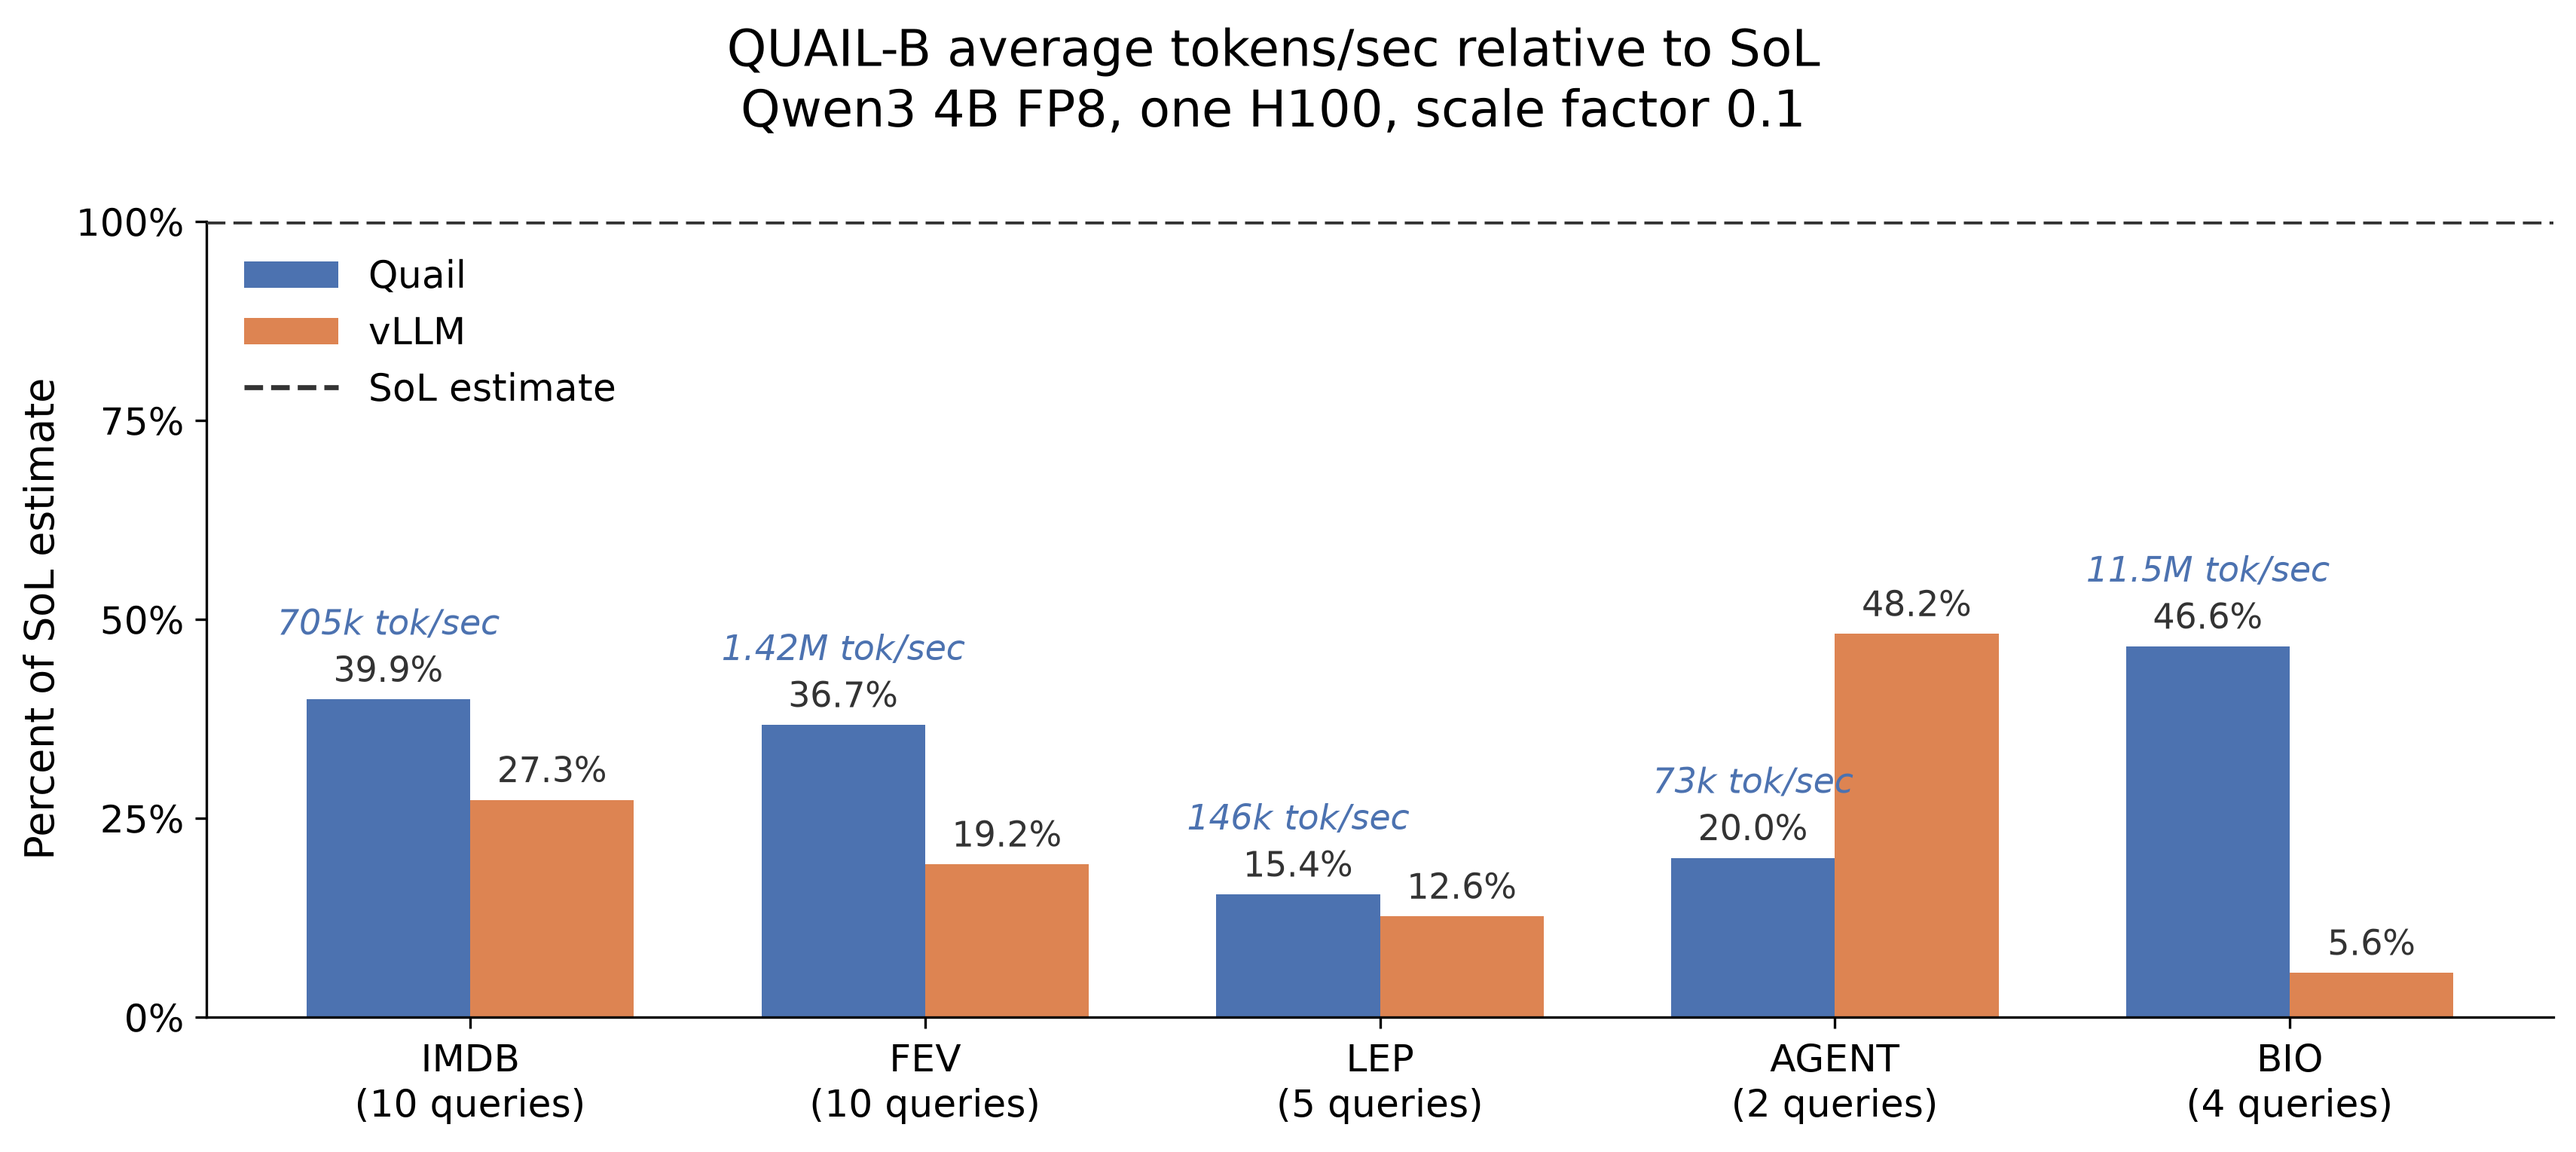
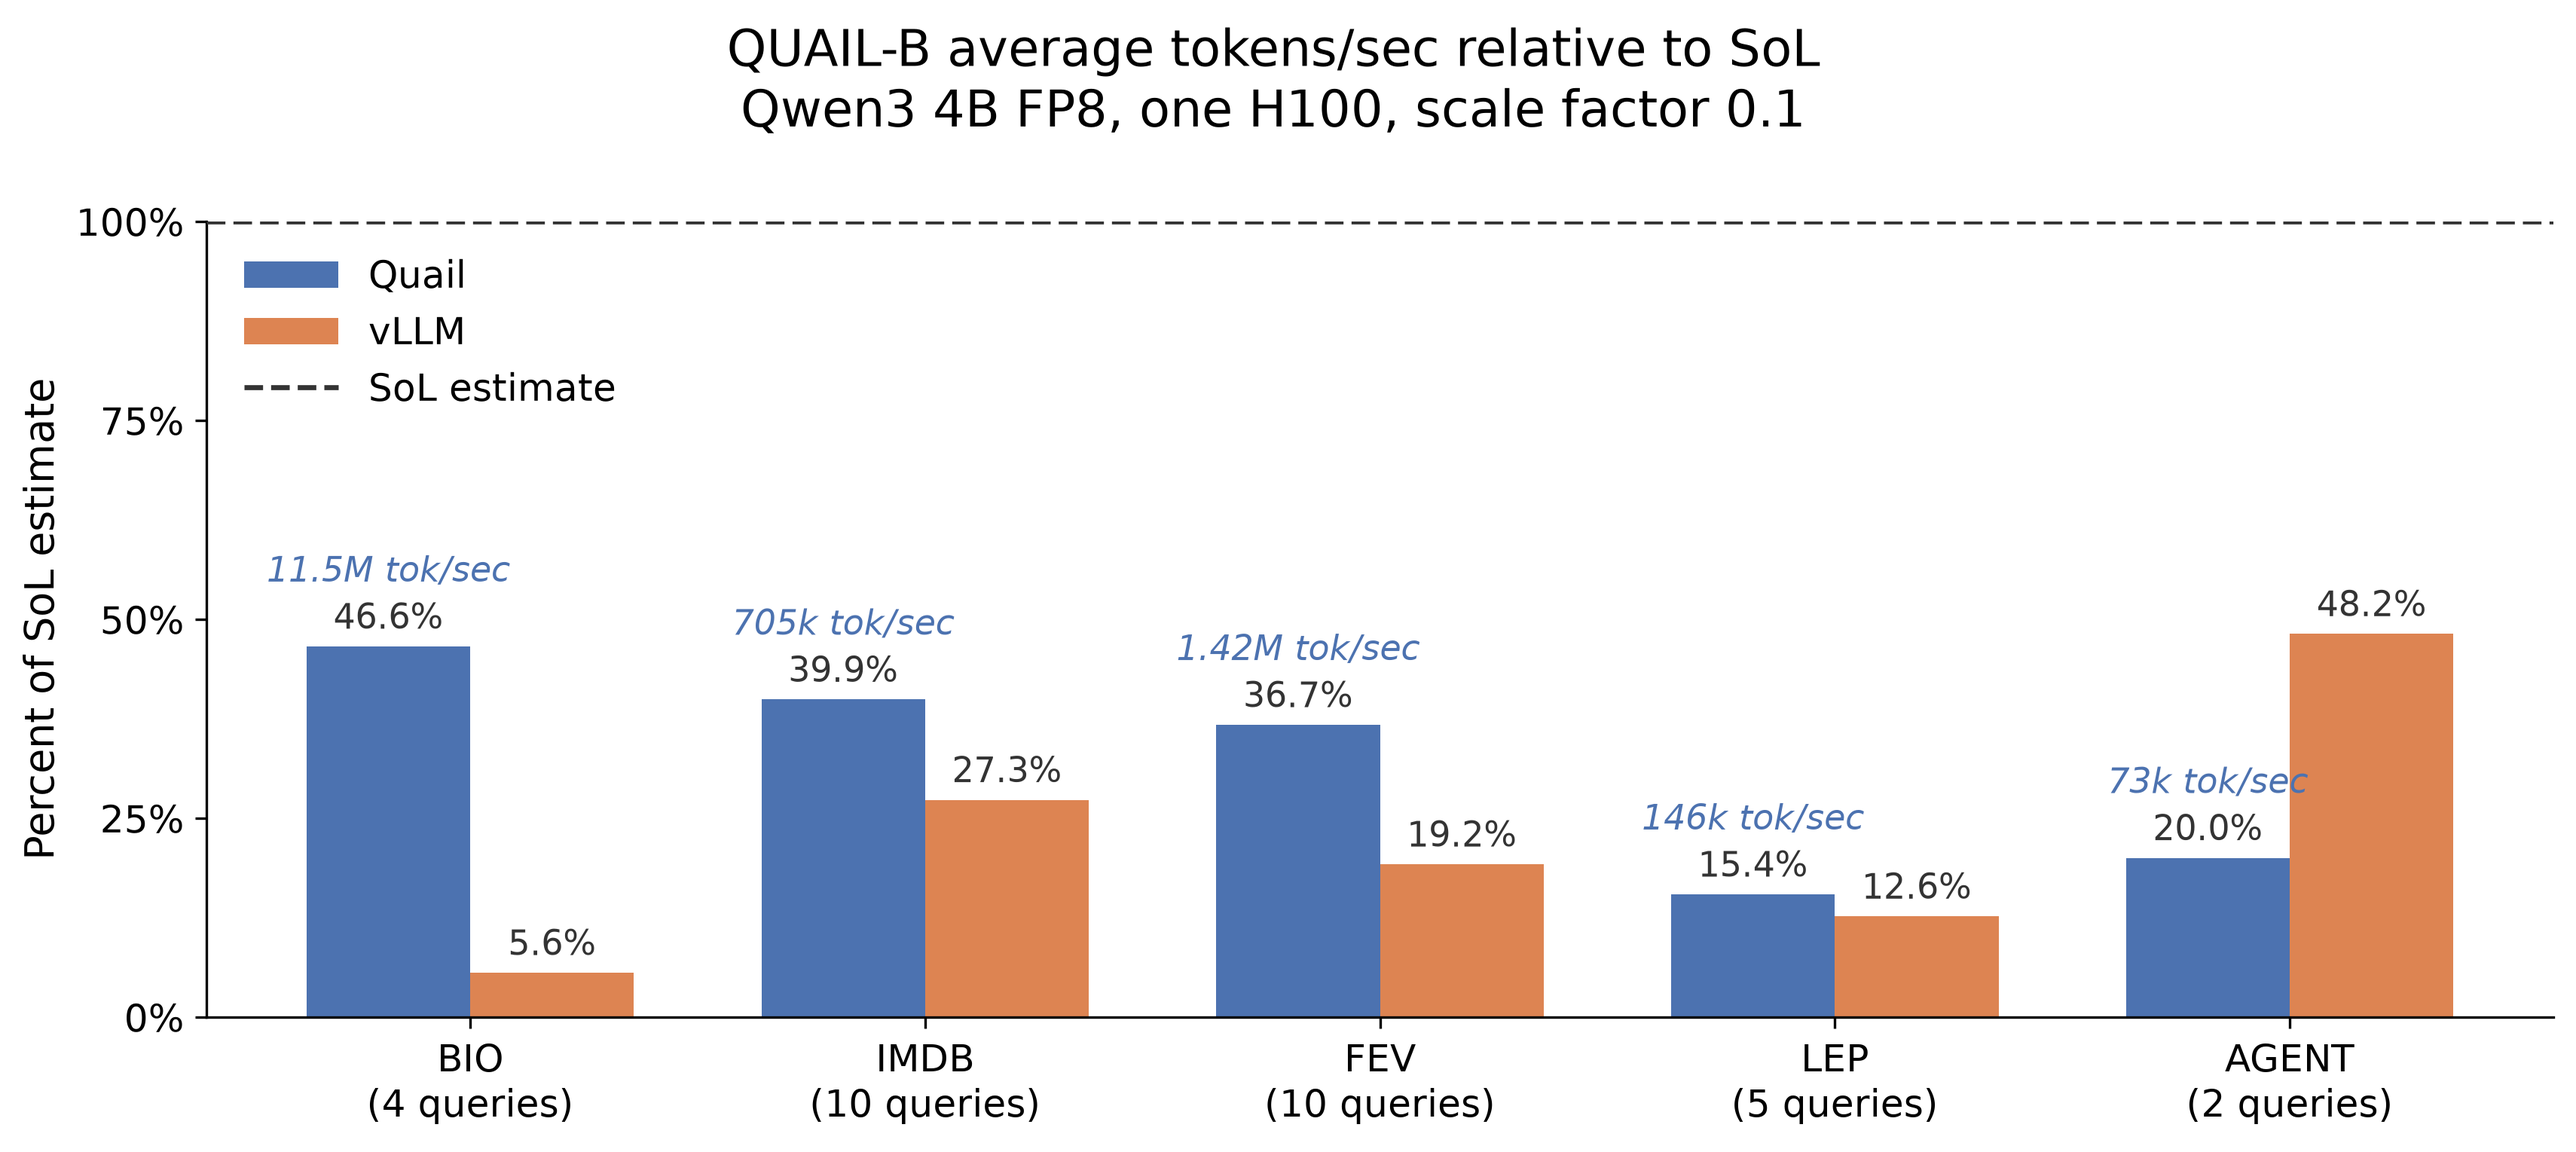
Put BIO first on the headline chart
BIO is the leftmost dataset. IMDB, FEV, LEP, and AGENT follow.

diff --git a/blogs/intro/make_headline_tok_per_sec.py b/blogs/intro/make_headline_tok_per_sec.py
@@ -59,7 +59,7 @@ HERE = Path(__file__).resolve().parent
 BLUE = "#4C72B0"
 ORANGE = "#DD8452"
 DARK = "#333333"
-DATASETS = ("IMDB", "FEV", "LEP", "AGENT", "BIO")
+DATASETS = ("BIO", "IMDB", "FEV", "LEP", "AGENT")
 # QUAIL-B README: 10 IMDB, 4 BioDEX, 10 FEVER, 5 LePaRD, 2 SWE-Next.
 QUERY_COUNTS = {"IMDB": 10, "FEV": 10, "LEP": 5, "AGENT": 2, "BIO": 4}
 # The saved comparison still uses ids from before the LePaRD deletion.
